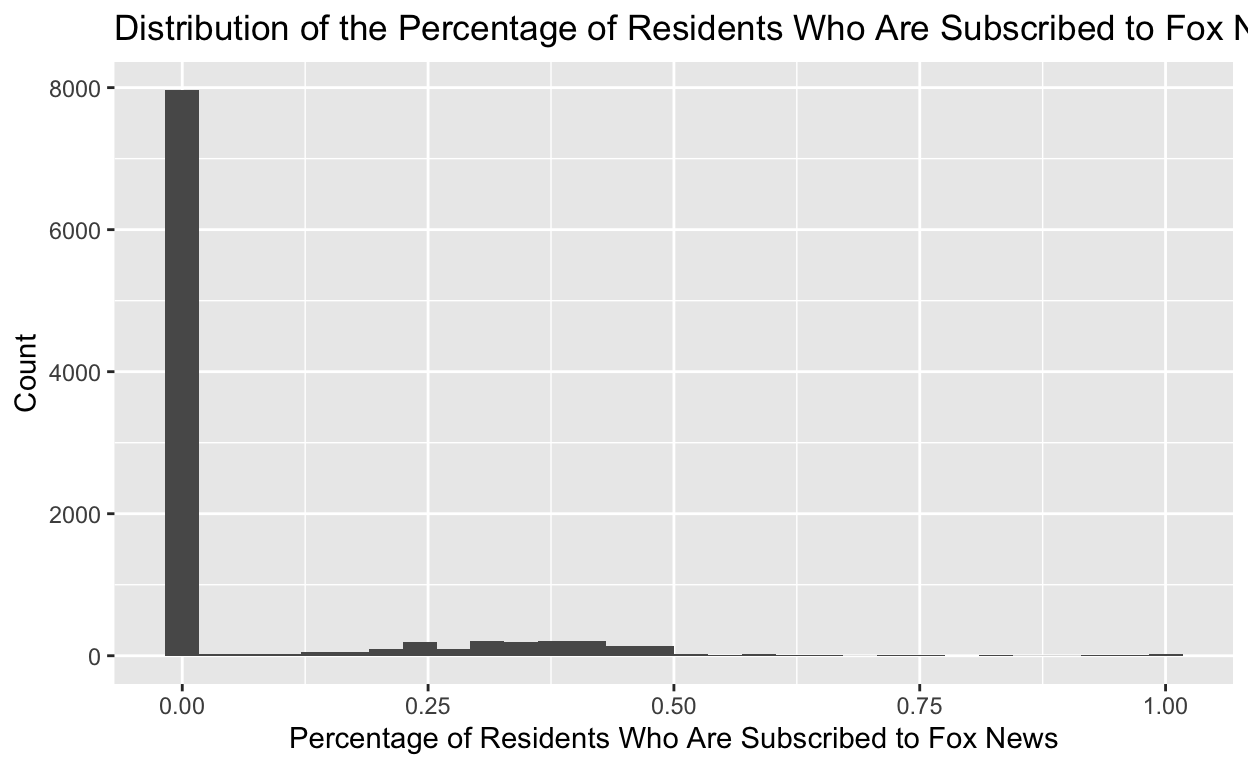
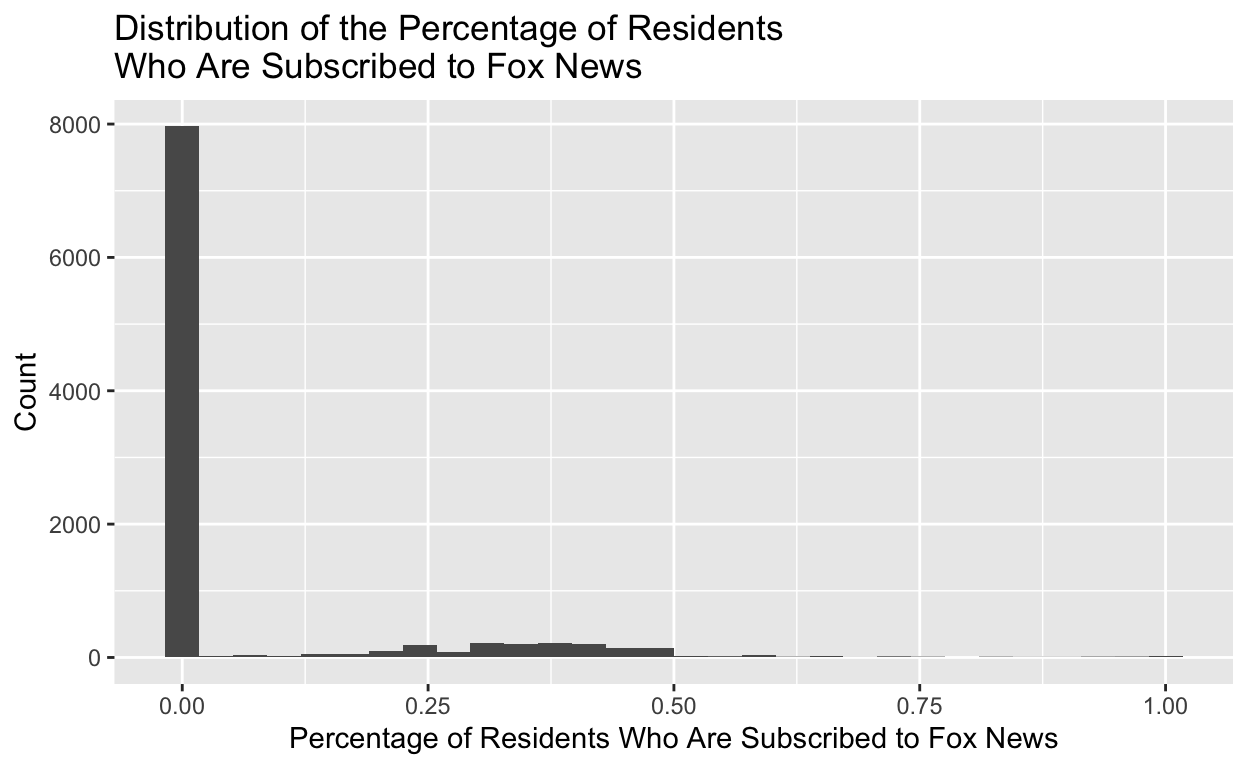
Trying again

diff --git a/index.html b/index.html
@@ -1542,7 +1542,7 @@ code span.wa { color: #5e5e5e; font-style: italic; } /* Warning */
 <span>  <span class='fu'><a href='https://ggplot2.tidyverse.org/reference/geom_histogram.html'>geom_histogram</a></span><span class='op'>(</span><span class='op'>)</span> <span class='op'>+</span> <span class='fu'><a href='https://ggplot2.tidyverse.org/reference/labs.html'>labs</a></span><span class='op'>(</span></span>
 <span>    x <span class='op'>=</span> <span class='st'>"Percentage of Residents Who Are Subscribed to Fox News"</span>,</span>
 <span>    y <span class='op'>=</span> <span class='st'>"Count"</span>,</span>
-<span>    title <span class='op'>=</span> <span class='st'>"Distribution of the Percentage of Residents Who Are Subscribed to Fox News"</span></span>
+<span>    title <span class='op'>=</span> <span class='st'>"Distribution of the Percentage of Residents \nWho Are Subscribed to Fox News"</span></span>
 <span>  <span class='op'>)</span></span>
 <span></span>
 <span><span class='va'>subrf2000_histogram</span></span></code></pre>
